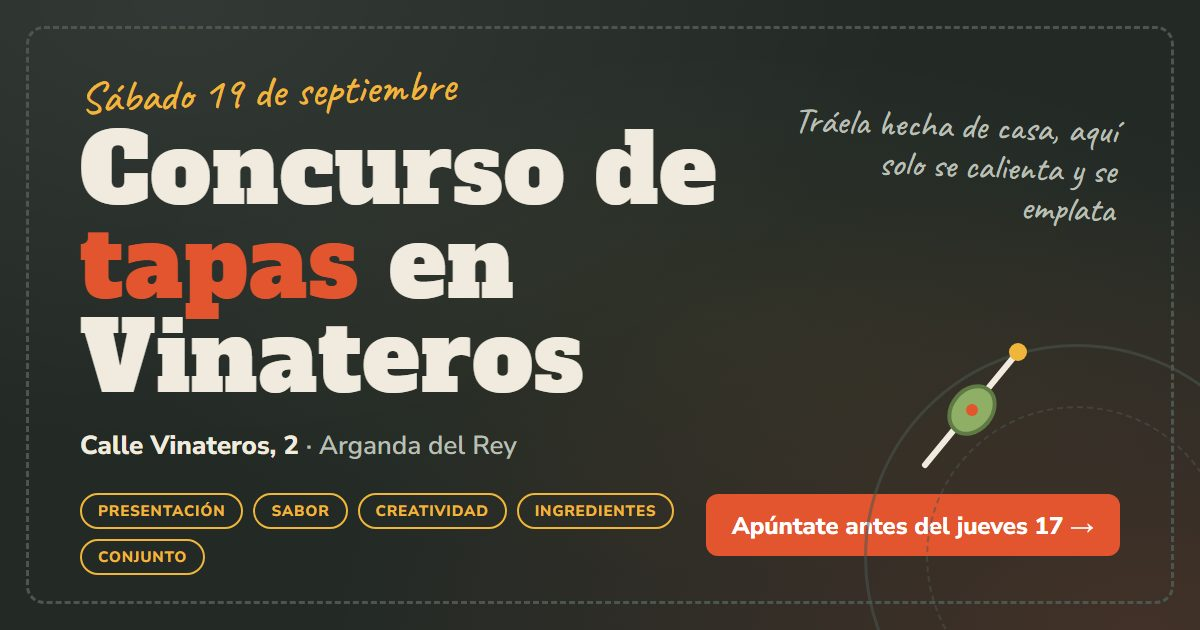
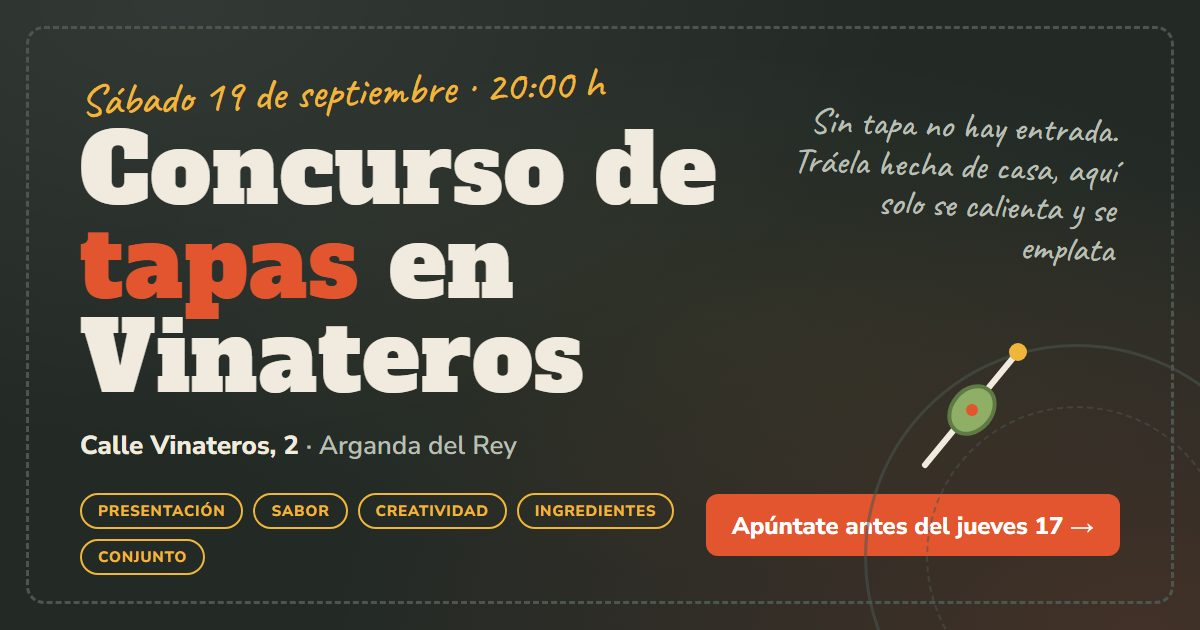
Hora 20:00 y norma de entrada solo con tapa

Changed region(s): [[0.6475, 0.1508, 0.925, 0.3619], [0.0617, 0.1206, 0.5242, 0.181], [0.8325, 0.3921, 0.925, 0.4222]]

diff --git a/index.html b/index.html
@@ -4,12 +4,12 @@
 <meta charset="utf-8">
 <meta name="viewport" content="width=device-width, initial-scale=1, viewport-fit=cover">
 <title>Tapas en Vinateros</title>
-<meta name="description" content="Sábado 19 de septiembre en Calle Vinateros, 2 (Arganda del Rey). Inscribe tu tapa, vota de forma anónima y descubre la ganadora.">
+<meta name="description" content="Sábado 19 de septiembre a las 20:00 h en Calle Vinateros, 2 (Arganda del Rey). Inscribe tu tapa, vota de forma anónima y descubre la ganadora.">
 <meta property="og:type" content="website">
 <meta property="og:locale" content="es_ES">
 <meta property="og:site_name" content="Tapas en Vinateros">
-<meta property="og:title" content="Concurso de tapas en Vinateros · Sábado 19 de septiembre">
-<meta property="og:description" content="Calle Vinateros, 2 · Arganda del Rey. Trae tu tapa hecha de casa, inscríbela aquí y vota. Gana la mejor media.">
+<meta property="og:title" content="Concurso de tapas en Vinateros · Sábado 19 de septiembre, 20:00 h">
+<meta property="og:description" content="Calle Vinateros, 2 · Arganda del Rey. Solo entra quien trae tapa: inscríbela antes del jueves 17 y vota el sábado. Gana la mejor media.">
 <meta property="og:url" content="https://victormendezrodriguez10.github.io/concurso-tapas/">
 <meta property="og:image" content="https://victormendezrodriguez10.github.io/concurso-tapas/flyer.jpg">
 <meta property="og:image:secure_url" content="https://victormendezrodriguez10.github.io/concurso-tapas/flyer.jpg">
@@ -19,7 +19,7 @@
 <meta property="og:image:alt" content="Concurso de tapas en Vinateros, sábado 19 de septiembre">
 <meta name="twitter:card" content="summary_large_image">
 <meta name="twitter:title" content="Concurso de tapas en Vinateros">
-<meta name="twitter:description" content="Sábado 19 de septiembre · Calle Vinateros, 2 · Inscribe tu tapa y vota.">
+<meta name="twitter:description" content="Sábado 19 de septiembre, 20:00 h · Calle Vinateros, 2 · Inscribe tu tapa y vota.">
 <meta name="twitter:image" content="https://victormendezrodriguez10.github.io/concurso-tapas/flyer.jpg">
 <link rel="preconnect" href="https://fonts.googleapis.com">
 <link rel="preconnect" href="https://fonts.gstatic.com" crossorigin>
@@ -232,7 +232,7 @@
     <div class="bloque">
       <h2>Las normas</h2>
       <ol class="normas">
-        <li><span class="n">1</span><div><b>Trae tu tapa hecha de casa.</b> Solo puede faltarle calentarla y emplatarla. Aquí hay horno y microondas, no cocina para empezar de cero.</div></li>
+        <li><span class="n">1</span><div><b>Sin tapa no hay entrada.</b> Solo viene quien trae la suya, hecha de casa: solo puede faltarle calentarla y emplatarla. Aquí hay horno y microondas, no cocina para empezar de cero.</div></li>
         <li><span class="n">2</span><div><b>Inscribe tu plato aquí antes del jueves 17 a las 23:59</b> con tu nombre, cómo lo presentas y una foto. Después se cierra la inscripción para saber cuántas tapas hay que preparar. Las tapas quedan en secreto: nadie las ve hasta que el anfitrión dé comienzo al concurso.</div></li>
         <li><span class="n">3</span><div><b>La votación es anónima.</b> Cuando empiece la cata, cada persona puntúa todos los platos menos el suyo. Nadie ve qué nota ha puesto cada cual ni de quién es cada tapa.</div></li>
         <li><span class="n">4</span><div><b>Cuando todo el mundo haya votado,</b> el anfitrión publica los resultados: nombres, medias y la tapa ganadora.</div></li>
@@ -413,7 +413,7 @@
 const EVENTO = {
   fecha: "Sábado 19 de septiembre de 2026",
   fechaCorta: "Sábado 19 de septiembre",
-  hora: "",                        // Ej.: "a partir de las 14:00". Déjalo vacío si no quieres mostrarlo.
+  hora: "a las 20:00 h",           // Déjalo vacío si no quieres mostrarlo.
   cierreInscripcion: "2026-09-17T23:59:59+02:00", // Jueves 17 de septiembre a las 23:59 (hora de España). Después nadie nuevo puede inscribirse.
   cierreTexto: "jueves 17 a las 23:59",
   codigoAnfitrion: "VINATEROS",    // Código para el panel del anfitrión. Cámbialo.

diff --git a/flyer.html b/flyer.html
@@ -62,13 +62,13 @@
 <body>
 <div class="lienzo h" id="h">
   <div class="marco"></div>
-  <span class="eyebrow">Sábado 19 de septiembre</span>
+  <span class="eyebrow">Sábado 19 de septiembre · 20:00 h</span>
   <h1>Concurso de <em>tapas</em> en Vinateros</h1>
   <p class="dir"><b>Calle Vinateros, 2</b> · Arganda del Rey</p>
   <div class="tags">
     <span class="tag on">Presentación</span><span class="tag on">Sabor</span><span class="tag on">Creatividad</span><span class="tag on">Ingredientes</span><span class="tag on">Conjunto</span>
   </div>
-  <p class="nota">Tráela hecha de casa, aquí solo se calienta y se emplata</p>
+  <p class="nota">Sin tapa no hay entrada. Tráela hecha de casa, aquí solo se calienta y se emplata</p>
   <span class="cta">Apúntate antes del jueves 17 →</span>
   <div class="plato"></div>
   <svg class="oliva" viewBox="0 0 150 150" fill="none" stroke-linecap="round">
@@ -81,10 +81,10 @@
 
 <div class="lienzo v" id="v">
   <div class="marco"></div>
-  <span class="eyebrow">Sábado 19 de septiembre</span>
+  <span class="eyebrow">Sábado 19 de septiembre · 20:00 h</span>
   <h1>Concurso de <em>tapas</em> en Vinateros</h1>
   <p class="dir"><b>Calle Vinateros, 2</b> · Arganda del Rey</p>
-  <p class="nota">Tráela hecha de casa: aquí solo se calienta y se emplata. Votación anónima, gana la mejor media. Inscripciones hasta el jueves 17 a las 23:59.</p>
+  <p class="nota">Sin tapa no hay entrada. Tráela hecha de casa: aquí solo se calienta y se emplata. Votación anónima, gana la mejor media. Inscripciones hasta el jueves 17 a las 23:59.</p>
   <div class="tags">
     <span class="tag on">Presentación</span><span class="tag on">Sabor</span><span class="tag on">Creatividad</span><span class="tag on">Ingredientes</span><span class="tag on">Conjunto</span>
   </div>
